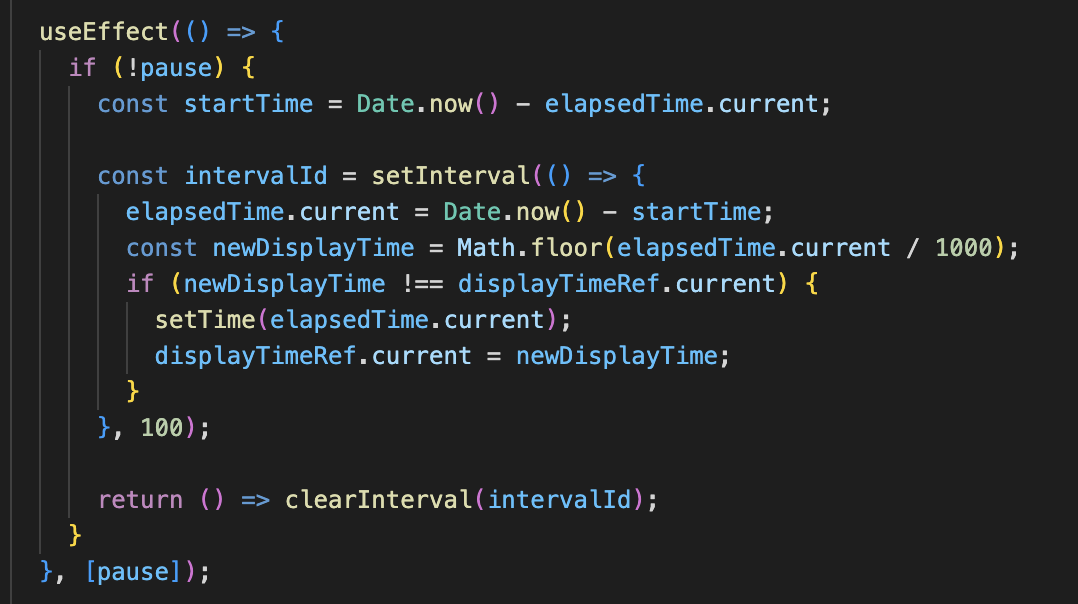
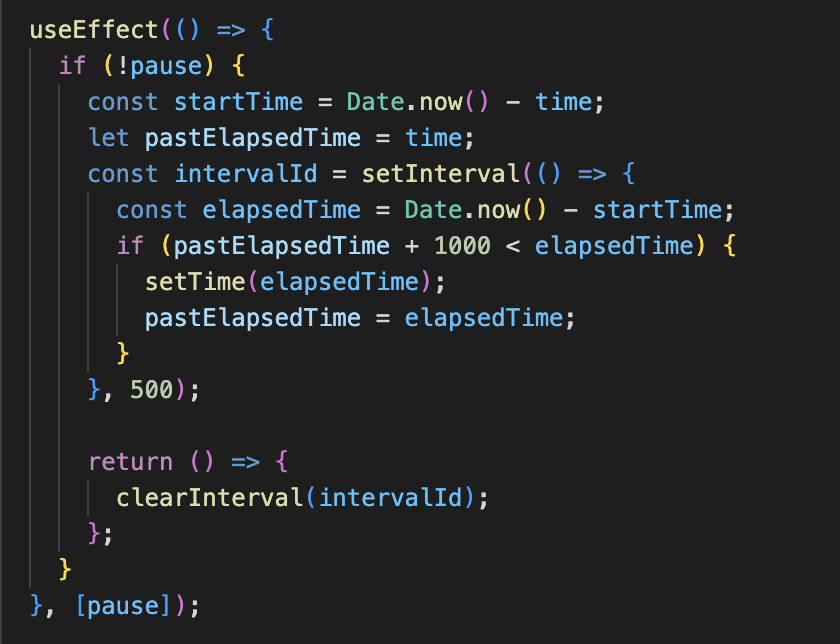
modify content

Changed region(s): [[0.0, 0.0, 0.9286, 1.0], [0.681, 0.2384, 0.7119, 0.298]]

diff --git a/portfolio/src/projectDetail.js b/portfolio/src/projectDetail.js
@@ -112,8 +112,8 @@ export const pacemakerData = {
       ],
       approach: [
         '문제 해결을 위해, setInterval의 각 호출 시 setTime을 통한 시간 증가 방식에서 벗어나, 각 호출마다 시작 시간과 현재 시간을 비교하여 시간을 설정하는 방식으로 변경했고, 이를 통해 시간의 정확성을 향상시켰습니다.',
-        '또한, 더욱 정확한 시간 계산을 위해 호출 간격을 100ms로 줄였습니다. 하지만, 이 과정에서 useState로 상태를 관리하게 되면 렌더링이 과도하게 발생하여 성능 저하의 우려가 있었습니다.',
-        '따라서 useRef를 사용하여 실제 시간 값은 렌더링에 영향을 주지 않는 방식으로 관리하되, 1초 차이가 날 경우에만 useState를 통해 상태를 업데이트하고 화면에 반영하도록 하여 성능을 고려했습니다.',
+        '또한, 더욱 정확한 시간 계산을 위해 호출 간격을 500ms로 줄였습니다. 하지만, 이 과정에서 useState로 상태를 관리하게 되면 렌더링이 과도하게 발생하여 성능 저하의 우려가 있었습니다.',
+        '따라서 변수를 생성하여 실제 시간 값은 렌더링에 영향을 주지 않는 방식으로 관리하되, 1초 차이가 날 경우에만 useState를 통해 상태를 업데이트하고 화면에 반영하도록 하여 성능을 고려했습니다.',
       ],
       wil: [
         'javaScript의 이벤트 루프, micro task queue, call stack 등의 작동 원리에 대해 더 깊이 이해할 수 있었습니다.',
